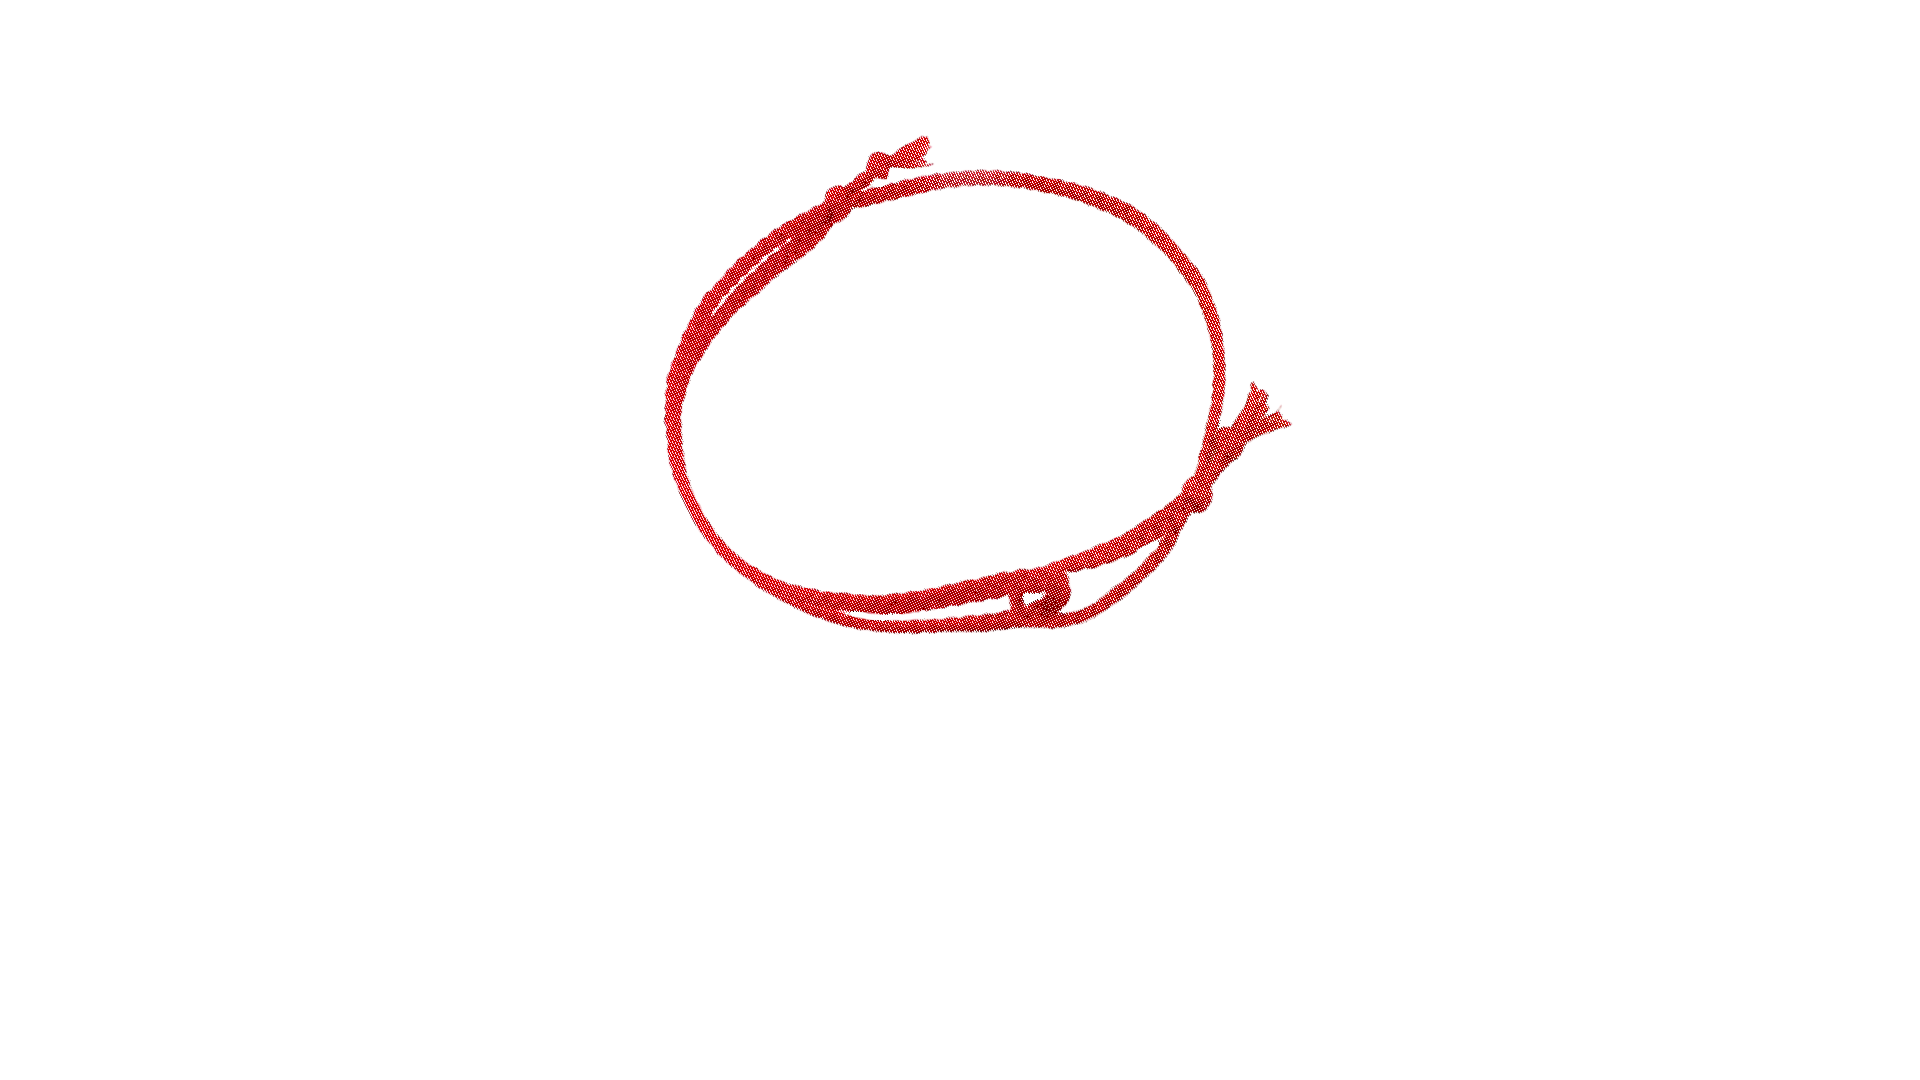
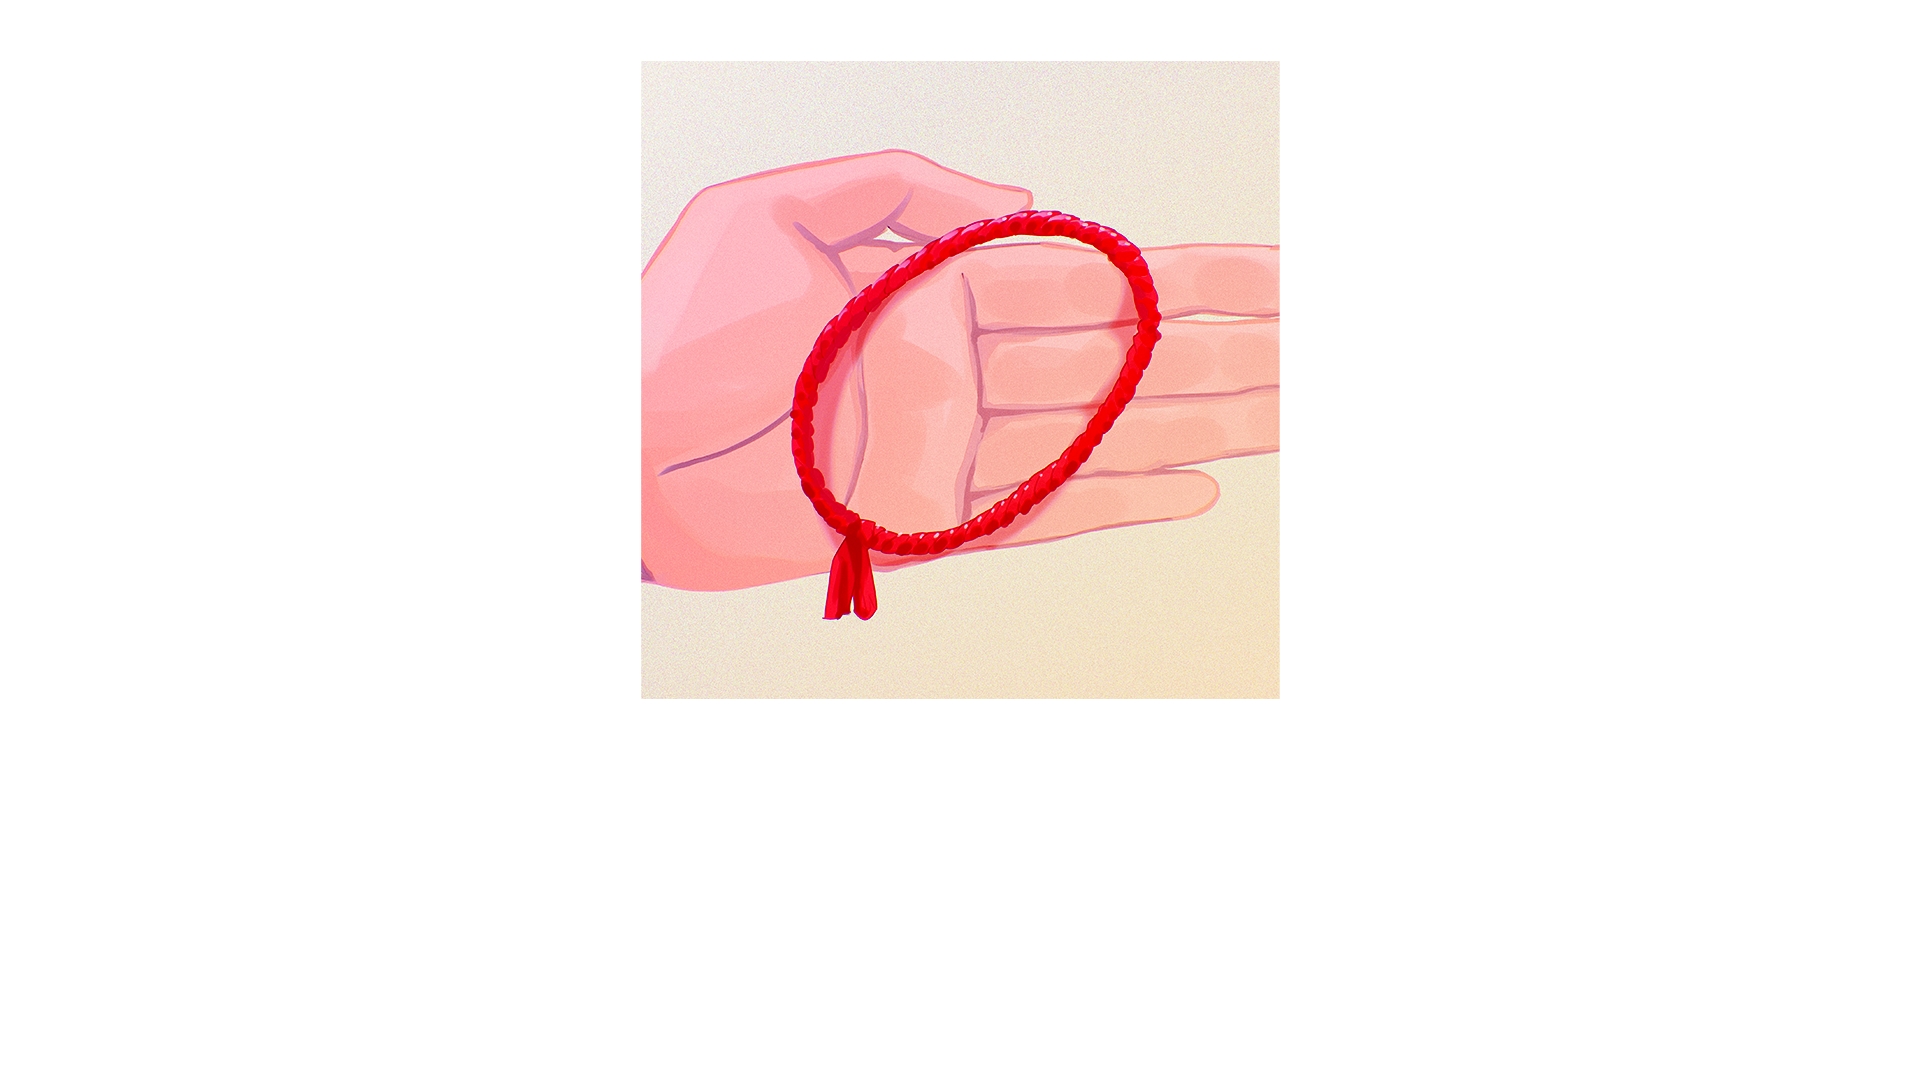
Bracelet Yarn

Changed region(s): [[0.3125, 0.0306, 0.6875, 0.6722]]

diff --git a/Assets/M/Menu/Inventory/ItemActionPanel/Scripts/ActionPanelButtons.cs b/Assets/M/Menu/Inventory/ItemActionPanel/Scripts/ActionPanelButtons.cs
@@ -28,10 +28,23 @@ public class ActionPanelButtons : MonoBehaviour
         //close inventory after clicking use
         Menu.instance.UI_off();
 
+        if (connectedItem.itemName == "Bracelet")
+        {
+            if (GameManager.instance.FinishedDialogues.Contains("Bracelet1"))
+            {
+                if (currentscene.name.StartsWith("S1")) {runner.StartDialogue("Bracelet2"); }
+                else if (currentscene.name.StartsWith("S2_7_Stairs"){ runner.StartDialogue("inventory_notjelly"); }
+                else (runner.StartDialogue("WrongItem");)
+            }
+            else
+            {
+                runner.StartDialogue("Bracelet1");
+            }
+        }
 
 
 
-        if (connectedItem.itemName == "Wallet")
+        else if (connectedItem.itemName == "Wallet")
         {
             if (GameManager.instance.S1Ended() == true)
             {
